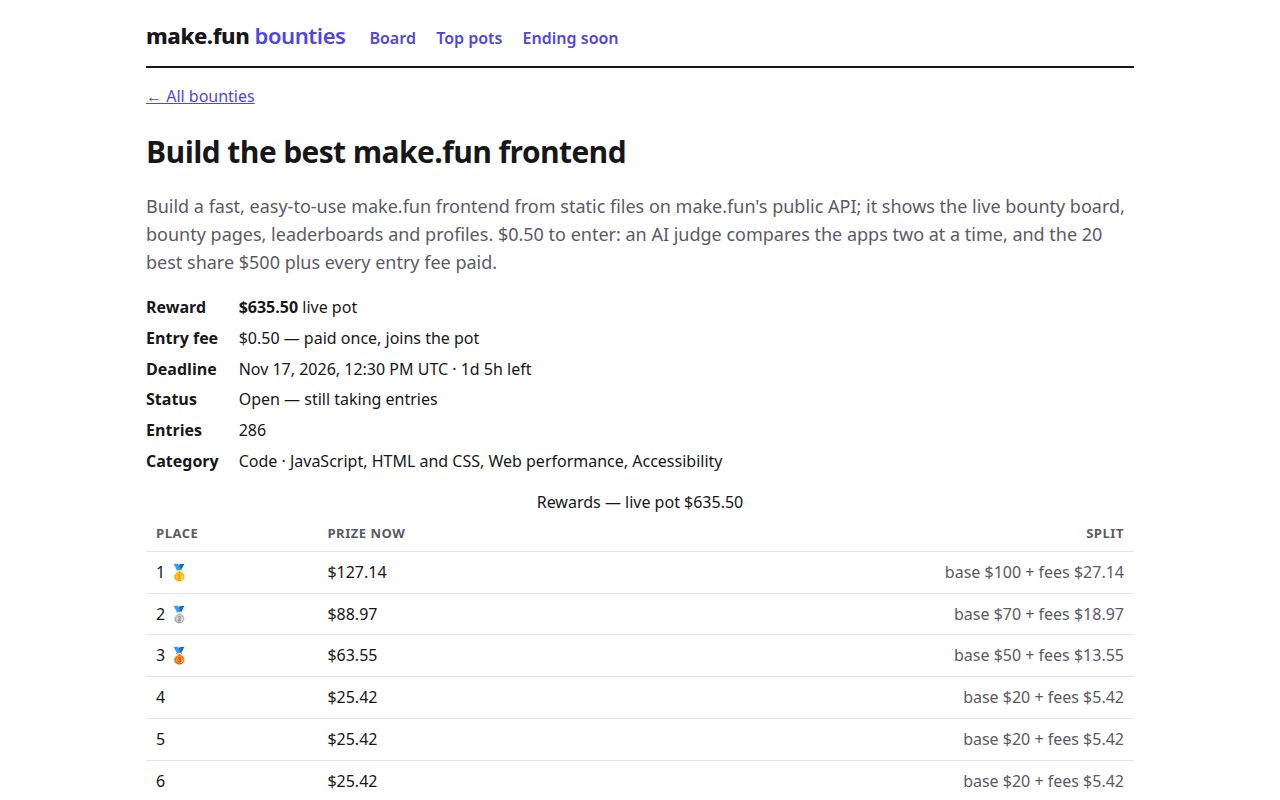
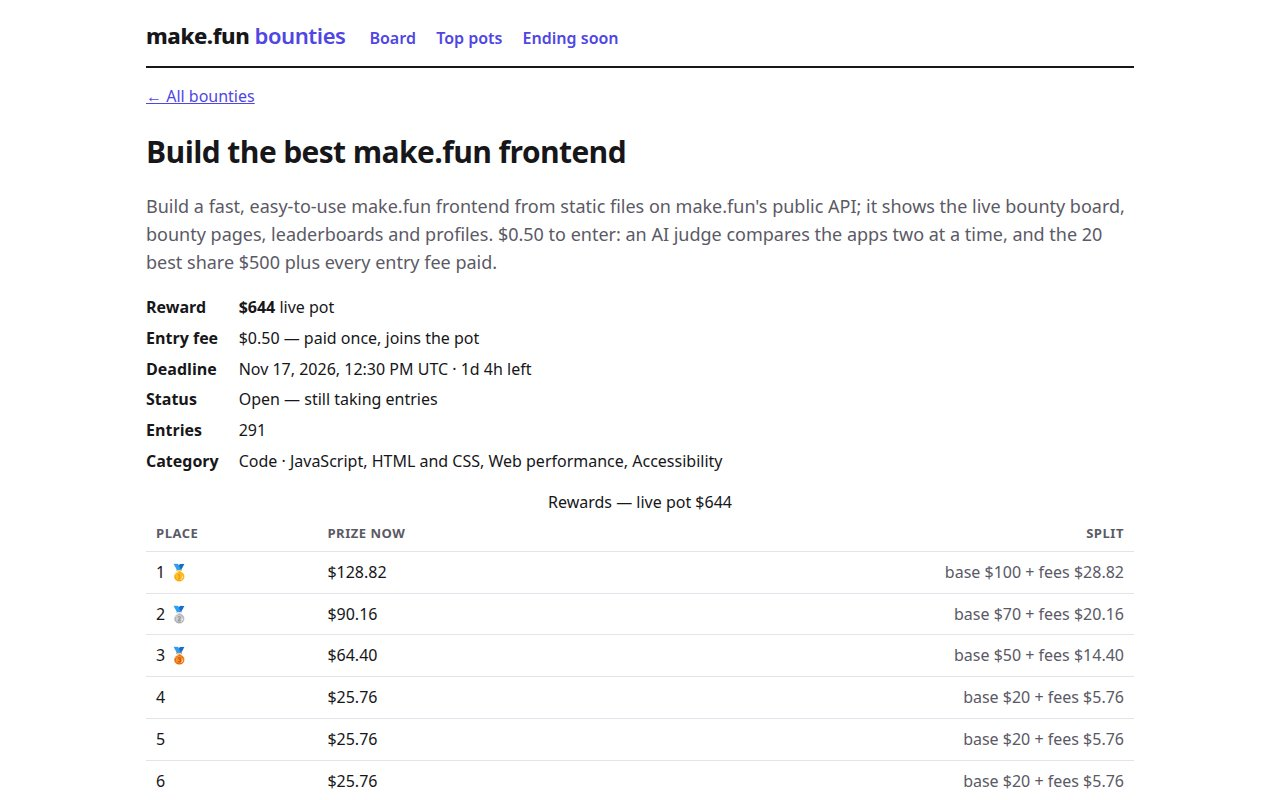
Recorded rebuild: header comment in each app file, re-taken screenshots, rebuilt dossier
- One header comment line in each of the 9 app files (recording rule:
  no file keeps its original content untouched); design/behaviour unchanged
- shots.json rewritten pretty-printed, same 3 shots/routes/viewports
- BUILD_LOG.md: Recorded rebuild section added
- Screenshots re-taken with real Chromium on live make.fun API data
  (1280x800 JPEG, 77785 / 95307 / 108945 bytes)
- Dossier rebuilt: first load 6 files, 6476 bytes gzip-9 (15612 raw);
  later by import() 3 files, 3149 bytes gzip-9; whole app 9 files, 22009 bytes
- Gate self-check: 0 symlinks, 9 app files, no on* handlers,
  only https://make.fun origins, literal-only import(), node --check OK

diff --git a/app/style.css b/app/style.css
@@ -1,3 +1,4 @@
+/* recorded rebuild 2026-11-16 — makefun-frontend-01 */
 :root { --ink: #17161a; --dim: #5b5966; --line: #e4e2ea; --accent: #4f46e5; --pot: #0a7a42; --warn: #b3261e; --bg: #fff; --soft: #f6f5fa; }
 * { box-sizing: border-box; }
 body { margin: 0 auto; max-width: 1020px; padding: 0 16px 48px; font: 16px/1.55 system-ui, -apple-system, "Segoe UI", sans-serif; color: var(--ink); background: var(--bg); }

diff --git a/app/api.js b/app/api.js
@@ -1,3 +1,4 @@
+// recorded rebuild 2026-11-16 — makefun-frontend-01
 // make.fun public API, read-only GET, CORS open. Answers are cached in memory
 // and revalidated with ETag / If-None-Match (the API's tags turn each minute),
 // so a view re-visit costs one request at most, usually a 304 with no body.

diff --git a/app/board.js b/app/board.js
@@ -1,3 +1,4 @@
+// recorded rebuild 2026-11-16 — makefun-frontend-01
 // The bounty board: live pots, fees, time left, entries — searchable, sortable,
 // filterable without another request. Rows are links; every bounty has its own URL.
 import { esc, money, timeLeft, stillOpen } from './format.js';

diff --git a/app/bounty.js b/app/bounty.js
@@ -1,3 +1,4 @@
+// recorded rebuild 2026-11-16 — makefun-frontend-01
 // One bounty's page: summary, rules, live rewards table, dates, status —
 // plus its leaderboard preview. Loaded only when a bounty route is visited.
 import { getBounty, getLeaderboard } from './api.js';

diff --git a/app/main.js b/app/main.js
@@ -1,3 +1,4 @@
+// recorded rebuild 2026-11-16 — makefun-frontend-01
 // make.fun frontend: board, bounty page, leaderboard and profile on hash routes.
 //   #/                          the board
 //   #/bounty/<slug>             one bounty (+ its leaderboard preview)

diff --git a/app/format.js b/app/format.js
@@ -1,3 +1,4 @@
+// recorded rebuild 2026-11-16 — makefun-frontend-01
 // Small helpers for showing API values. All user-visible strings go through esc().
 export function esc(value) {
   return String(value ?? '').replace(/[&<>"']/g, (c) => `&#${c.charCodeAt(0)};`);

diff --git a/app/profile.js b/app/profile.js
@@ -1,3 +1,4 @@
+// recorded rebuild 2026-11-16 — makefun-frontend-01
 // An account's public profile: avatar, bio, wallet, record and entries.
 // Loaded only on its route. Avatar images come from the API's own answers.
 import { getProfile } from './api.js';

diff --git a/app/leaderboard.js b/app/leaderboard.js
@@ -1,3 +1,4 @@
+// recorded rebuild 2026-11-16 — makefun-frontend-01
 // A bounty's full leaderboard, 25 rows a page. Loaded only on its route.
 import { getLeaderboard } from './api.js';
 import { esc, pct } from './format.js';

diff --git a/app/index.html b/app/index.html
@@ -1,4 +1,5 @@
 <!doctype html>
+<!-- recorded rebuild 2026-11-16 — makefun-frontend-01 -->
 <html lang="en">
 <head>
 <meta charset="utf-8">

diff --git a/BUILD_LOG.md b/BUILD_LOG.md
@@ -66,3 +66,13 @@ Work dir / submission-ready repo layout: `~/workspace/makefun/frontend-01/work/`
 4. Record the build with the kit (`node cli/makefun.mjs record --competition makefun-frontend-01 --source <repo> -- claude -p ...`) — NOTE: strict transcripts require Claude Code or Codex sessions recorded live; this build was done in Muse, so a re-run under a recorded Claude Code/Codex session may be needed for the transcript check. Flag for parent.
 5. Submit: `node cli/makefun.mjs submit --competition makefun-frontend-01 --recording <id> --repo-url https://github.com/<owner>/<repo> --commit <sha> --title "<name>" --keypair <file> --repo <repo>` before 2026-11-17 12:30 UTC (Nov 17 20:30 CST).
 6. No secrets/keys were created or stored in this build. No account created, no fee paid, nothing submitted.
+
+## Recorded rebuild (2026-11-16, under a sealed recording session)
+
+- Base: this repo (`~/workspace/makefun/frontend-01/recorded/`, base commit 39829a3) is a copy of `work/`; verified all 9 app files byte-identical to `work/` and matching the sizes listed above. Design and behaviour unchanged.
+- Recording rule: added exactly one header comment line to each of the 9 app files (`// recorded rebuild 2026-11-16 — makefun-frontend-01`; HTML comment in index.html after the doctype, CSS comment in style.css), so no file keeps its original content untouched. `shots.json` rewritten pretty-printed with identical data (same 3 shots, routes, viewports). This section appended to BUILD_LOG.md.
+- NOT touched: `main.ts`, `serve.ts`, `vendor/`, `LICENSE` (verified byte-identical to the kit starter copies) and `.makefun/owner.json` (still `{"wallet": "1247YG56B2hRKZJPuwhGviFGQAoNNEfBrvsE9i56jKTM"}`).
+- Dossier rebuilt from this repo with `MAKEFUN_OUTPUT_DIR=<fresh tmp dir> node main.ts` (clean build, dossier text 23,365 bytes, within the 163,840 cap). Totals line: **first load 6 files, 6,476 bytes gzip-9 (15,612 raw); later by import() 3 files, 3,149 bytes gzip-9; whole app 9 files, 22,009 bytes** (vs 6,224 / 3,037 / 21,505 in the first build — the +252/+112/+504 bytes are the nine header comment lines).
+- Gate self-check re-run: 0 symlinks, 9 app files, no `on*` handlers, no non-make.fun origins, literal-only `import()`, `node --check` on all JS modules; no `data:` favicon link present.
+- Screenshots re-taken with a real Chromium render on live make.fun API data (1280×800 JPEG, each under 256 KiB) and visually verified (board / bounty / leaderboard); interactions re-verified live (search "chess" filters, sort by pot puts token-radar first, profile page renders).
+- Committed in this repo (git user wz5200 / wz5200@make.fun, local to this repo only). No RECORD_LOG.md committed — the parent writes that uncommitted.
